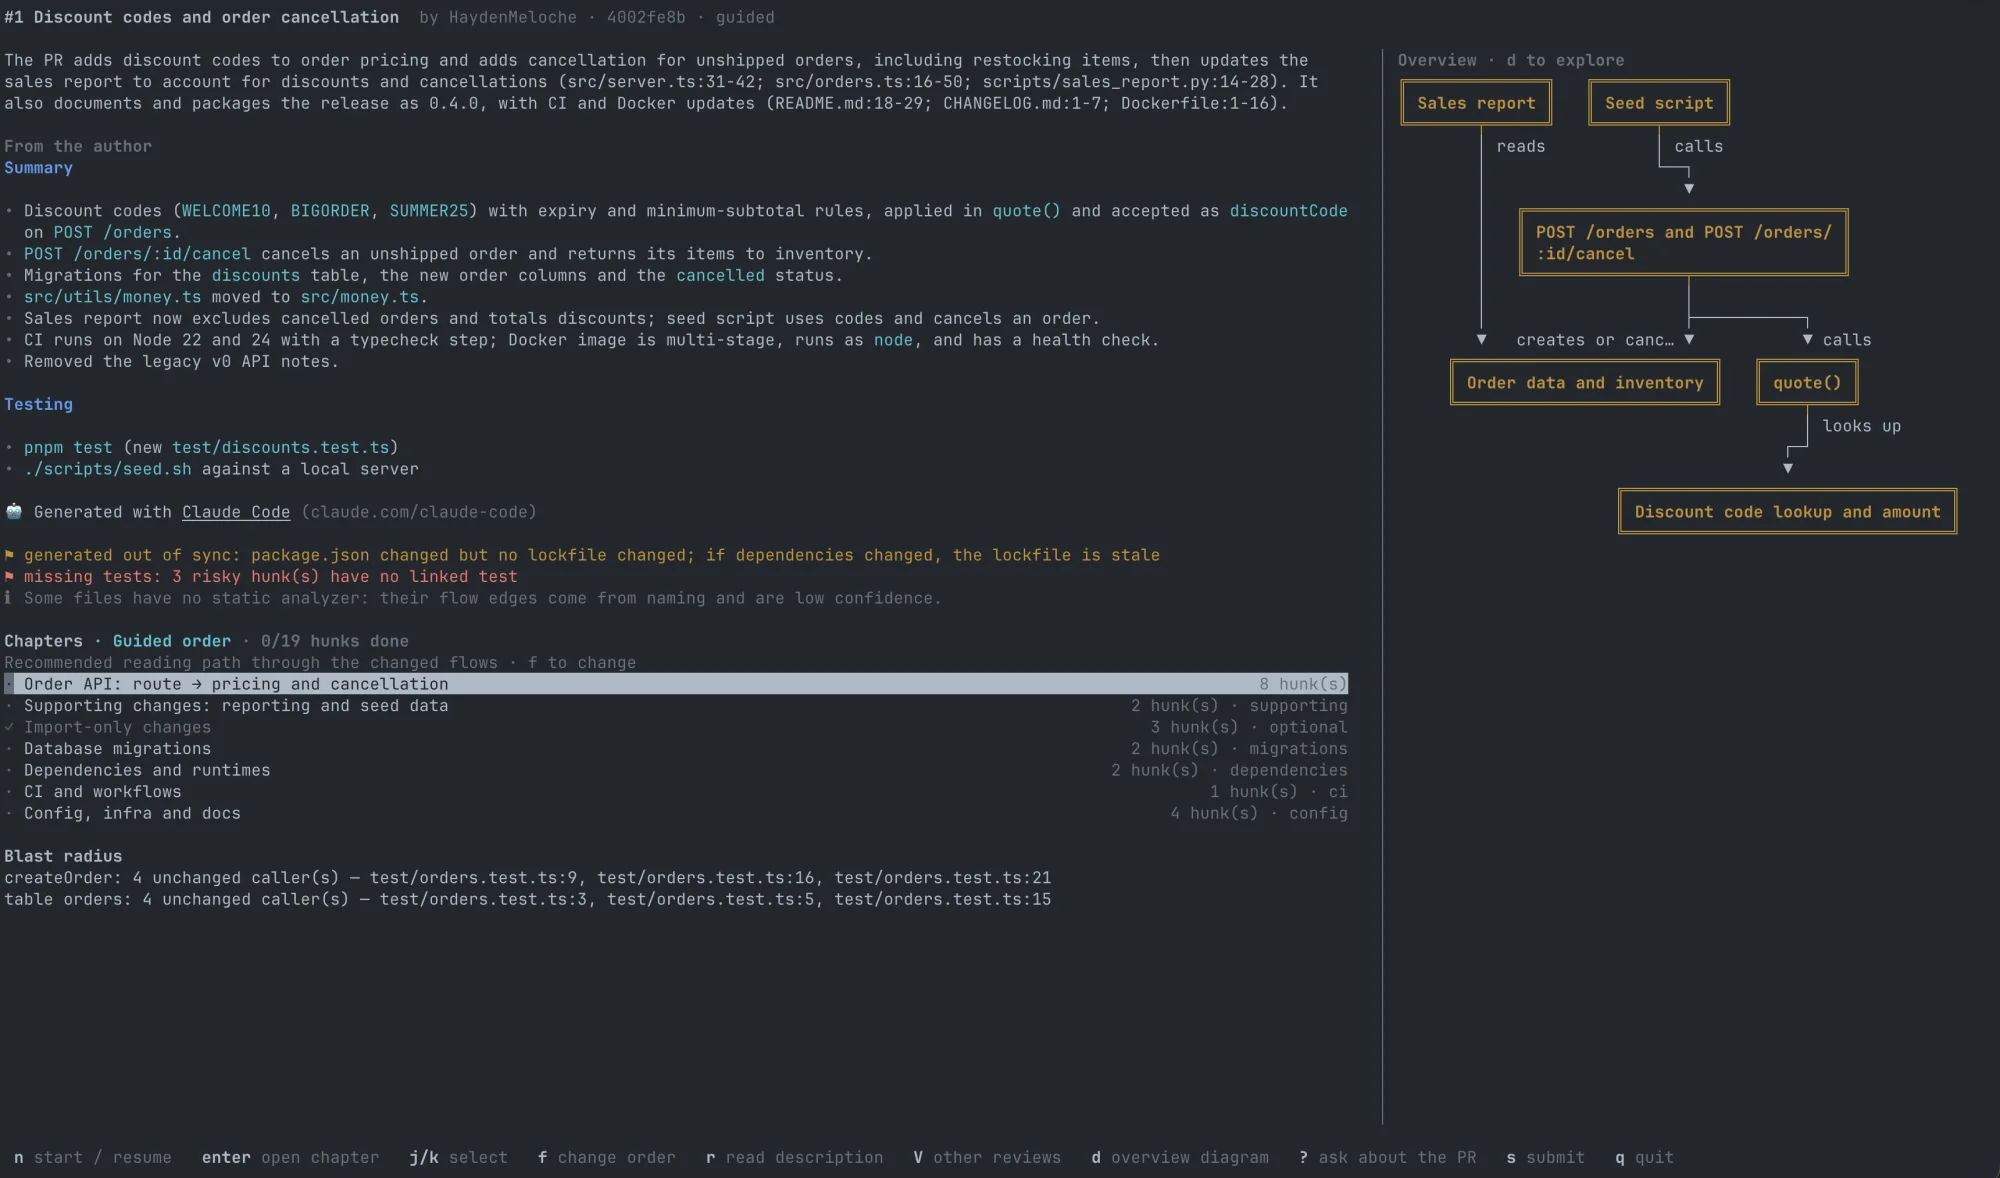
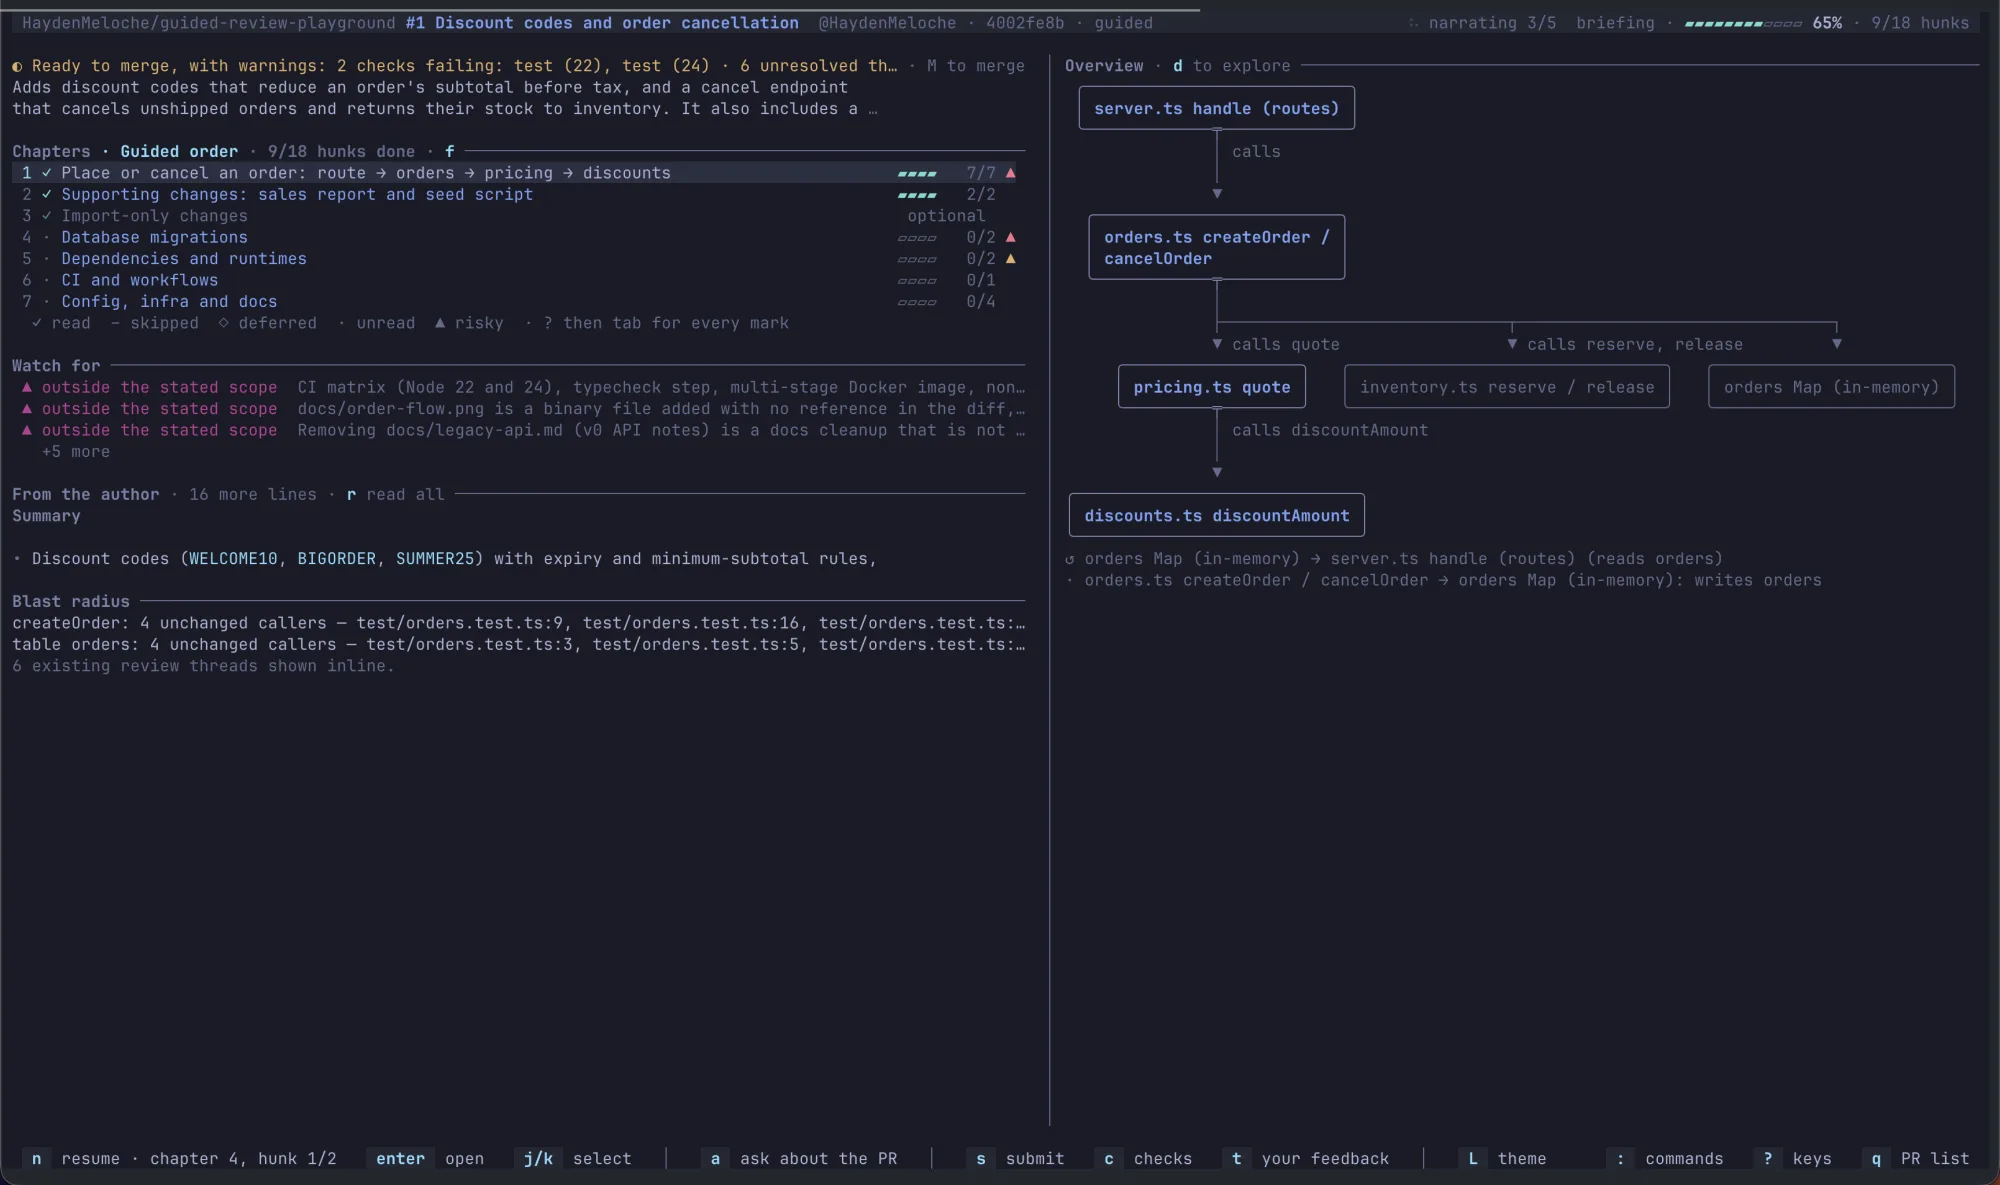
Show the redesigned chapter, briefing, and feedback screens in the docs
New screenshots of a chapter and the briefing replace the old ones. The README, usage guide and site gain the feedback briefing and a feedback thread, and the site now says to press a, not ?, to ask about a line.

diff --git a/docs/index.html b/docs/index.html
@@ -391,8 +391,8 @@
           ><img
             src="images/chapter.webp"
             width="2000"
-            height="1191"
-            alt="A chapter of a Guided Review tour: an explanation of the hunk, the changed code, and linked tests with their diffs side by side"
+            height="1178"
+            alt="A chapter of a Guided Review tour: the chapter list, an explanation of the hunk, the changed code with review threads, and linked tests side by side"
         /></a>
         <figcaption>A chapter of a sample PR: an explanation, the changed code, and the linked tests beside it.</figcaption>
       </figure>
@@ -405,16 +405,30 @@
             ><img
               src="images/briefing.webp"
               width="2000"
-              height="1178"
+              height="1185"
               loading="lazy"
-              alt="The briefing screen: a summary of the PR, the author's description, an overview diagram, a list of chapters, and blast radius"
+              alt="The briefing screen: whether the PR can merge, a summary of the PR, chapters in reading order, flagged gaps, the author's description, blast radius, and an overview diagram"
           /></a>
         </figure>
         <h2>Ask about any line</h2>
-        <p>Select code and press <code>?</code>. Answers cite the files and lines they come from, and follow-up questions keep the thread.</p>
+        <p>Select code and press <code>a</code>. Answers cite the files and lines they come from, and follow-up questions keep the thread.</p>
         <figure class="shot wide">
           <a href="images/ask.webp"
             ><img src="images/ask.webp" width="2000" height="1137" loading="lazy" alt="A question about a changed line, answered inline below the code with file and line references"
+          /></a>
+        </figure>
+        <h2>Respond to a review</h2>
+        <p>
+          On your own PR, <code>gr feedback</code> turns the review into a work list: each thread with the code it is on and the files it links to. Triage, reply, and send every reply as one review.
+        </p>
+        <figure class="shot wide">
+          <a href="images/feedback-thread.webp"
+            ><img
+              src="images/feedback-thread.webp"
+              width="2000"
+              height="1190"
+              loading="lazy"
+              alt="A review thread in gr feedback: the commented code, the discussion, and the files the comment links to, read at the commit it names"
           /></a>
         </figure>
       </section>

diff --git a/docs/usage.md b/docs/usage.md
@@ -34,7 +34,7 @@ An outdated review thread, one on lines a later push changed, shows where those 
 
 The terminal's window title names the PR and where you are in it, such as `gr · acme/app#42 · chapter 3/7`, and goes back to your own title when you quit (in terminals that keep a title stack). In Ghostty, WezTerm, Windows Terminal, ConEmu, and iTerm2 3.6 or later, the tab or taskbar also shows progress while the tour builds and while chapter narration runs in the background, so you can work in another tab until it is done.
 
-<p align="center"><img src="images/briefing.webp" alt="The briefing screen: a summary of the PR, the author's description, flagged gaps, an overview diagram, chapters in reading order, and blast radius" width="900"></p>
+<p align="center"><img src="images/briefing.webp" alt="The briefing screen: whether the PR can merge, a summary of the PR, chapters in reading order with progress and risk, flagged gaps, the author's description, blast radius, and an overview diagram" width="900"></p>
 
 A **chapter** shows an explanation, code hunk, risk and test status, existing review threads, and linked tests. The row above the key bar says where you are (the hunk, the line, your drafts waiting, how the hunk is tested), shows an open range in yellow with its lines (`RANGE src/pricing.ts:27–31`), and carries messages after a key press: plain ones fade, warnings (yellow) and errors (red) stay until your next key. `n` says the hunk it marked read and how much of the chapter is done. One row names the chapter, the hunk, where it is, and how it is tested; the explanation sits under it behind a quiet rule, its first sentence in the normal weight and the rest dimmer. With a theme, the cursor's row takes the selection color and a range a lighter tint; a long line that wraps shows `↪` where its line numbers were. From 110 columns the tests sit beside the code and from 140 the chapter list sits on the left too; narrower terminals let `t` toggle between code and tests. Generated, vendored, and mechanical changes start collapsed into summaries. Import-only changes form an optional chapter that normal `n`/`p` navigation skips.
 
@@ -206,6 +206,8 @@ The first screen is laid out like the review briefing. On the left is the PR: wh
 
 On a terminal narrower than 120 columns, the feedback sits above the PR instead.
 
+<p align="center"><img src="images/feedback.webp" alt="The feedback briefing: whether the PR can merge, its summary and your description, and the feedback chapters on the left; reviews, checks, thread counts, and themes on the right" width="900"></p>
+
 A feedback chapter is the tour chapter whose code the threads are on, so related threads stay together; its title also names the files its threads are on. Chapters with an open change request come first, then the tour's reading order; threads with no line in the diff go in **Elsewhere in the PR**. Inside a chapter, change requests come first. A thread's class comes from the label a `gr` reviewer posted (`**[blocking]**`, `**[nit]**`, …), or else from the model (change request, question, suggestion, nit, or praise); without either it counts as a change request. Probably addressed threads stay in their chapter, marked and listed after the others; resolved threads are hidden, and `H` shows them.
 
 **Probably addressed** means the lines under the thread changed in a commit after it was written, the change is your PR's own (an update that only merged the base branch in does not count), and no reviewer has written in it since your latest commit. It is a prompt to check, not proof, and Guided Review never resolves a thread on its own.
@@ -217,6 +219,8 @@ Press `n` to start or resume, `Enter` to open the selected chapter (with no feed
 Each thread shows its state, class, your triage, the reviewers in it, where it is, the code it is on with the commented line marked, and the discussion. An outdated thread is followed to its line at the current head; if those lines were rewritten it goes to the nearest line that survived, and if they left the diff (or the commit it was written on is gone after a force push), the comment's own diff hunk is shown as it was.
 
 When a comment links to a file in the PR's repository, such as the code references `gr` posts (`https://github.com/o/r/blob/<sha>/src/retry.ts#L10-L14`), the file shows on the right, read at the commit the link names: the linked lines, marked, with ten lines on each side (the top of the file for a link to the whole file). Several linked files stack one under another while they fit; when space runs short, the context around the last one shrinks so its linked lines still show. A link to a branch, or to a commit that is gone after a force push, shows the file at the PR head and says so. Links to other repositories are not previewed. Code a comment names without linking shows the same way: a class or function name (`PaymentsUtils`, `retryPolicy`, `PaymentsUtils.findBorrowers`), a name in backticks, or a source file name (`FacilitiesService.kt`). Each name is looked up in the PR's checkout at its head, and only an exact match shows, headed by the name that found it (`PaymentsUtils → src/…/PaymentsUtils.kt:76`); a class shows its declaration line, a function its first lines. Names in code blocks and URLs are not looked up, and a match on the thread's own lines is left out. The preview needs a terminal at least 110 columns wide; narrower, the status line counts the linked files instead.
+
+<p align="center"><img src="images/feedback-thread.webp" alt="A review thread in gr feedback: the commented code, the discussion, and the files the comment links to, read at the commit it names" width="900"></p>
 
 | Key | Action |
 | --- | --- |

diff --git a/README.md b/README.md
@@ -14,7 +14,7 @@ The same tour works for learning a codebase: every change becomes a walk through
 
 The tour is built from static analysis of the diff and the checkout. A model, if you configure one, adds the briefing's summary, each chapter's explanation, and answers to your questions. Without one, everything else still works, and nothing leaves your machine.
 
-<p align="center"><img src="docs/images/chapter.webp" alt="A Guided Review chapter showing an explanation, the changed code, and linked tests side by side" width="900"></p>
+<p align="center"><img src="docs/images/chapter.webp" alt="A Guided Review chapter: the chapter list, an explanation of the hunk, the changed code with review threads, and linked tests side by side" width="900"></p>
 
 ## Features
 
@@ -53,13 +53,17 @@ You need Node 22.13 or newer, `git`, and the [GitHub CLI](https://cli.github.com
 
 The **briefing** opens first. It shows the PR's intent and author description, recent reviewer feedback, flagged gaps, an overview diagram, and chapters in a recommended reading order. Press `Enter` on a chapter, or `n` to start or resume.
 
-<p align="center"><img src="docs/images/briefing.webp" alt="The briefing screen: a summary of the PR, the author's description, flagged gaps, an overview diagram, chapters in reading order, and blast radius" width="900"></p>
+<p align="center"><img src="docs/images/briefing.webp" alt="The briefing screen: whether the PR can merge, a summary of the PR, chapters in reading order with progress and risk, flagged gaps, the author's description, blast radius, and an overview diagram" width="900"></p>
 
 A **chapter** shows an explanation, the code hunk, risk and test status, existing review threads, and linked tests. Press `n`/`p` to move between hunks, `c` to draft a comment, and `s` to review and submit your drafts.
 
 Press `a` on a selected line or range to ask about it. Answers cite the files and lines they come from, including code outside the diff. Below, the model finds that cancelling an order twice restocks its items twice, by following `release` into a file the PR does not touch.
 
 <p align="center"><img src="docs/images/ask.webp" alt="A question about a changed line, answered inline below the code with file and line references" width="900"></p>
+
+On your own PR, `gr feedback` turns the review into a work list. Each thread shows the code it is on, the discussion, and the files its comment links to; triage it with `Space`, reply with `y`, and send every reply as one review with `s`.
+
+<p align="center"><img src="docs/images/feedback-thread.webp" alt="A review thread in gr feedback: the commented code, the discussion, and the files the comment links to, read at the commit it names" width="900"></p>
 
 ## Commands
 
